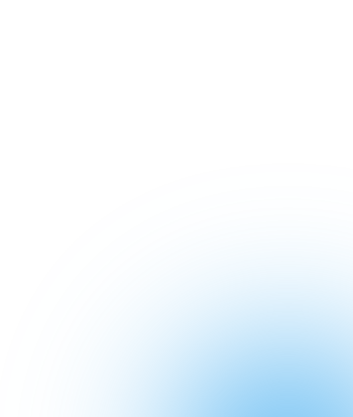
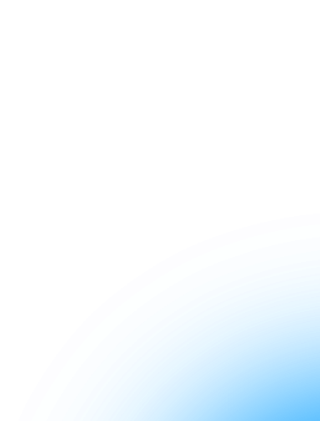
fix style

Changed region(s): [[0.8438, 0.8729, 1.0, 1.0], [0.5938, 0.8417, 0.6562, 0.8729]]

diff --git a/src/pages/MenuPage/MenuPage.js b/src/pages/MenuPage/MenuPage.js
@@ -9,21 +9,13 @@ import { useUsersContext } from "../../contexts/UserContext"
 import { useResize } from './../../hooks/useResize';
 import { getWorkerId } from '../../http/chatAPI';
 
-import FonTest01 from "../../image/background/Background 1.0 _ 320 х 568.png";
-import FonTest02 from "../../image/background/Background 1.0 _ 375 х 598.png";
-import FonTest03 from "../../image/background/Background 1.0 _ 414 х 658.png";
-
-import FonTest11 from "../../image/background/Background 2.0 _ 320 х 568.png";
-import FonTest12 from "../../image/background/Background 2.0 _ 375 х 598.png";
-import FonTest13 from "../../image/background/Background 2.0 _ 414 х 658.png";
-
-import FonTest21 from "../../image/background/Background 3.0 _ 320 х 568.png";
-import FonTest22 from "../../image/background/Background 3.0 _ 375 х 598.png";
-import FonTest23 from "../../image/background/Background 3.0 _ 414 х 658.png";
-
+import BlackFon from "../../image/background/Background_black_600X800.png";
 import Fon from "../../image/layers/ULEY_triangle.png";
 import FonGradTop from "../../image/layers/upper_red_corner_menu.png";
 import FonGradBottom from "../../image/layers/lower_blue_corner_menu.png";
+
+import ButtonsMenu from "../../image/buttons/button_for_menu.png"
+import smallMenu from "../../image/layers/ULEY text.png"
 
 const MenuPage = () => {
     const {user} = useTelegram();
@@ -32,6 +24,9 @@ const MenuPage = () => {
 
     const { setProjects, projects } = useUsersContext();
     const { setSpecId, flag } = useUsersContext();
+
+    const [showGrad, setShowGrad] = useState(false)
+    const [showGrad2, setShowGrad2] = useState(false)
 
  //----------------------------------------------------------------------------------
 
@@ -62,6 +57,11 @@ const MenuPage = () => {
         fetchData()   
     });
 
+    useEffect(() => {
+        setTimeout(() =>  setShowGrad(true), 1000) //градиент верх
+        setTimeout(() =>  setShowGrad2(true), 1000) // градиент низ
+    })
+
     const openInNewTab = (url) => {
         window.open(url, '_blank', 'noreferrer');
     };
@@ -72,22 +72,26 @@ const MenuPage = () => {
         <div className="App">
             <Header header={{title: 'Меню', icon: 'false'}}/>
 
-
+            {/* темный фон */}
+            <img src={BlackFon} alt='' className='fon-black' />
             <img src={Fon} alt='' className='fon-style' />
 
-            <img src={FonGradTop} alt='' className='fon-style2' />
-            <img src={FonGradBottom} alt='' className='fon-style21' />
+            <img src={FonGradTop} alt='' className='fon-style-menu' style={{visibility: showGrad ? "visible": "hidden"}}/>
+            <img src={FonGradBottom} alt='' className='fon-style-menu2' style={{visibility: showGrad2 ? "visible": "hidden"}}/>
            
-            <div className='menu-form'>
-                <Link to={'/profile'}><ButtonStatus>Профиль</ButtonStatus></Link> 
-                <Link to={'/projects'}><ButtonStatus>Проекты</ButtonStatus></Link>  
-                <Link to={'/page3'}><ButtonStatus>Смета</ButtonStatus></Link>  
-                <ButtonStatus role="link" onClick={() => openInNewTab('https://t.me/ULEY_Office_Bot')}>Офис</ButtonStatus> 
-                <Link to={'/stavki'}><ButtonStatus>Ставки</ButtonStatus></Link>
-                <Link to={'/info'}><ButtonStatus>Информация</ButtonStatus></Link>   
-                <Link to={'/faq'}><ButtonStatus>FAQ</ButtonStatus></Link>  
-                <Link to={'/contacts'}><ButtonStatus>Контакты</ButtonStatus></Link>
+            <div className='menu-form'>               
+                <Link to={'/profile'}><button class="image-button" style={{ backgroundImage: `url(${ButtonsMenu})`}}>Профиль</button></Link>
+                <Link to={'/projects'}><button class="image-button" style={{ backgroundImage: `url(${ButtonsMenu})`}}>Проекты</button></Link>
+                <Link to={'/page3'}><button class="image-button" style={{ backgroundImage: `url(${ButtonsMenu})`}}>Смета</button></Link>
+                <button role="link" class="image-button"  style={{ backgroundImage: `url(${ButtonsMenu})`}} onClick={() => openInNewTab('https://t.me/ULEY_Office_Bot')}>Офис</button> 
+                <Link to={'/stavki'}><button class="image-button" style={{ backgroundImage: `url(${ButtonsMenu})`}}>Ставки</button></Link>
+                <Link to={'/info'}><button class="image-button" style={{ backgroundImage: `url(${ButtonsMenu})`}}>Информация</button></Link>
+                <Link to={'/faq'}><button class="image-button" style={{ backgroundImage: `url(${ButtonsMenu})`}}>FAQ</button></Link>
+                <Link to={'/contacts'}><button class="image-button" style={{ backgroundImage: `url(${ButtonsMenu})`}}>Контакты</button></Link>           
             </div>
+
+            <div style={{display: 'flex', justifyContent: 'flex-end'}}><img src={smallMenu} alt='' style={{position: 'relative', marginRight: '45px'}} /></div>
+            
              
         </div>
     );

diff --git a/src/pages/HelloPage/HelloPage.js b/src/pages/HelloPage/HelloPage.js
@@ -8,17 +8,8 @@ import { getWorkerId } from '../../http/chatAPI';
 import Header from '../../components/Header/Header';
 import { useUsersContext } from "../../contexts/UserContext"
 
-//import FonTest from "../../image/back1.jpg";
-//import FonTest from "../../image/back2.jpg";
 
-// import FonTest01 from "../../image/background/Background 1.0 _ 320 х 568.png";
-// import FonTest02 from "../../image/background/Background 1.0 _ 375 х 598.png";
-// import FonTest03 from "../../image/background/Background 1.0 _ 414 х 658.png";
-
-// import FonTest11 from "../../image/background/Background 2.0 _ 320 х 568.png";
-// import FonTest12 from "../../image/background/Background 2.0 _ 375 х 598.png";
-// import FonTest13 from "../../image/background/Background 2.0 _ 414 х 658.png";
-
+import BlackFon from "../../image/background/Background_black_600X800.png";
 import Fon from "../../image/layers/ULEY_triangle.png";
 import FonGradTop from "../../image/layers/upper_red.png";
 import FonGradBottom from "../../image/layers/lower_blue.png";
@@ -28,6 +19,9 @@ const HelloPage = () => {
     const {user} = useTelegram();
     const navigate = useNavigate();
     const { width, isScreenSm, isScreenMd, isScreenLg, } = useResize();
+
+    const [showGrad, setShowGrad] = useState(false)
+    const [showGrad2, setShowGrad2] = useState(false)
 
     const [fio, setFio] = useState("")
     const { setSpecId } = useUsersContext();
@@ -56,22 +50,23 @@ const HelloPage = () => {
         fetchData()   
     });
 
+    useEffect(() => {
+        setTimeout(() =>  setShowGrad(true), 1000) //градиент верх
+        setTimeout(() =>  setShowGrad2(true), 1000) // градиент низ
+        //setTimeout(() =>  setShowFio(true), 2000) // градиент низ
+    })
+
 
     return (
         <div className="App">
             <Header header={{title: '', icon: 'false'}}/>
 
             {/* темный фон */}
-            {/* <img src={isScreenLg ? FonTest03 : (isScreenMd ? FonTest02 : FonTest01)} alt='' style={{width:"100%", position: 'absolute', left: '0'}} /> */}
-            
-            {/* фон с градиентом */}
-            {/* <img src={isScreenLg ? FonTest13 : (isScreenMd ? FonTest12 : FonTest11)} alt='' className='fon-style0' /> */}
-
-
+            <img src={BlackFon} alt='' className='fon-black' />
             <img src={Fon} alt='' className='fon-style' />
 
-            <img src={FonGradTop} alt='' className='fon-style2' />
-            <img src={FonGradBottom} alt='' className='fon-style21' />
+            <img src={FonGradTop} alt='' className='fon-style2' style={{visibility: showGrad ? "visible": "hidden"}} />
+            <img src={FonGradBottom} alt='' className='fon-style21' style={{visibility: showGrad2 ? "visible": "hidden"}} />
             
             <form>
                 <div style={{marginTop: '330px'}}>  

diff --git a/src/App.css b/src/App.css
@@ -85,6 +85,15 @@
   font-weight: bold;
 }
 
+.fon-black {
+  width: auto;
+  position: fixed;
+  right: 0;
+  top: 0;
+  z-index: 0;
+  height: 100%;
+}
+
 .fon-style {
   width: auto;
   position: fixed;
@@ -95,21 +104,50 @@
   object-fit: fill;
 }
 
+/* градиент верх */
 .fon-style2 {
   position: fixed;
   right: 0;
   top: 0;
   width: 100%;
   height: auto;
+  animation: showLabel 5s linear forwards;
+  animation-delay: 1s;
 }
 
+/* градиент низ */
 .fon-style21 {
   position: fixed;
   right: 0;
   bottom: 0;
   width: 100%;
   height: auto;
+  animation: showLabel 5s linear forwards;
+  animation-delay: 1s;
 }
+
+/* градиент меню верх */
+.fon-style-menu {
+  position: fixed;
+  right: 0;
+  top: 0;
+  width: 100%;
+  height: auto;
+  animation: showGradMenu 3s linear forwards;
+  animation-delay: 1s;
+}
+
+/* градиент меню верх */
+.fon-style-menu2 {
+  position: fixed;
+  right: 0;
+  bottom: 0;
+  width: 100%;
+  height: auto;
+  animation: showGradMenu 3s linear forwards;
+  animation-delay: 1s;
+}
+
 
 .fon-style22 {
   position: fixed;
@@ -134,8 +172,8 @@
 .fon-style3 {
   width: 280px; 
   position: relative;
-  margin-top: 270px;
-  animation: showBlock 6s linear forwards;
+  margin-top: 280px;
+  animation: showLabel 6s linear forwards;
   animation-delay: 1s;
 }
 
@@ -143,7 +181,7 @@
   width: 150px;
   position: relative;
   margin-left: 125px;
-  animation: showBlock 6s linear forwards;
+  animation: showLabel 6s linear forwards;
   animation-delay: 1s;
 }
 
@@ -161,8 +199,30 @@
   font-size: 26px;
   color: #ffffff;
   justify-content: center;
-  animation: showBlock 5s linear forwards;
-  /* animation-delay: 1s; */
+  animation: showFio 4s linear forwards;
+  animation-delay: 1s;
+}
+
+@keyframes showLabel {
+  0% {
+    opacity: 0;
+  }
+  50% {
+    opacity: 1;
+  }
+  100% {
+    opacity: 0;
+  }
+}
+
+
+@keyframes showGradMenu {
+  0% {
+    opacity: 0;
+  }
+  100% {
+    opacity: 1;
+  }
 }
 
 @keyframes showBlock {
@@ -192,6 +252,15 @@
   }
   100% {
     opacity: 1;
+  }
+}
+
+@keyframes showFio {
+  50% {
+    opacity: 1;
+  }
+  100% {
+    opacity: 0;
   }
 }
 

diff --git a/src/pages/LoadPage/LoadPage.js b/src/pages/LoadPage/LoadPage.js
@@ -3,14 +3,11 @@ import {useNavigate} from "react-router-dom";
 import { useResize } from './../../hooks/useResize';
 import './LoadPage.css';
 
+import BlackFon from "../../image/background/Background_black_600X800.png";
 import Fon from "../../image/layers/ULEY_triangle.png";
 import Logo from "../../image/logo_04_light.png";
 import Logo2 from "../../image/workhub.png";
 
-
-// import FonTest01 from "../../image/background/Background 1.0 _ 320 х 568.png";
-// import FonTest02 from "../../image/background/Background 1.0 _ 375 х 598.png";
-// import FonTest03 from "../../image/background/Background 1.0 _ 414 х 658.png";
 
 const LoadPage = () => {
 
@@ -31,9 +28,6 @@ const LoadPage = () => {
         setTimeout(() =>  setShowLogo2(false), 7000)
 
         console.log("width:", width + 'px')
-        console.log("isScreenSm:", isScreenSm)
-        console.log("isScreenMd:", isScreenMd)
-        console.log("isScreenLg:", isScreenLg)
 
         setTimeout(() =>  navigate("/hello"), 7000)
     }, []);
@@ -41,13 +35,11 @@ const LoadPage = () => {
 
     return (
         <div className="App">
-
-            {/* <img src={isScreenLg ? FonTest03 : (isScreenMd ? FonTest02 : FonTest01)} alt='' style={{width:"100%", position: 'absolute', left: '0'}} /> */}
+            <img src={BlackFon} alt='' className='fon-black' />
             <img src={Fon} alt='' className='fon-style' />
 
             <img src={Logo} alt='' className='fon-style3' style={{visibility: showLogo ? "visible": "hidden"}}/>
             <img src={Logo2} alt='' className='fon-style4' style={{visibility: showLogo2 ? "visible": "hidden"}}/>
-
         </div>
     );
 };

diff --git a/src/pages/MenuPage/MenuPage.css b/src/pages/MenuPage/MenuPage.css
@@ -7,8 +7,24 @@
 .menu-form {
     position: relative;
     z-index: 5;
-    margin-top: 80px;
+    margin-top: 100px;
     margin-left: 25px;
     margin-right: 25px;
     margin-bottom: 25px;
+}
+
+/* .button-menu {
+    width: 350px;
+} */
+
+.image-button {
+    width: 350px;
+    height: 60px;
+    border: none;
+    background-size: cover;
+    background-color: transparent;
+    color: #ffffff;
+    font-size: 16px;
+    cursor: pointer;
+    margin-bottom: 15px;
 }
